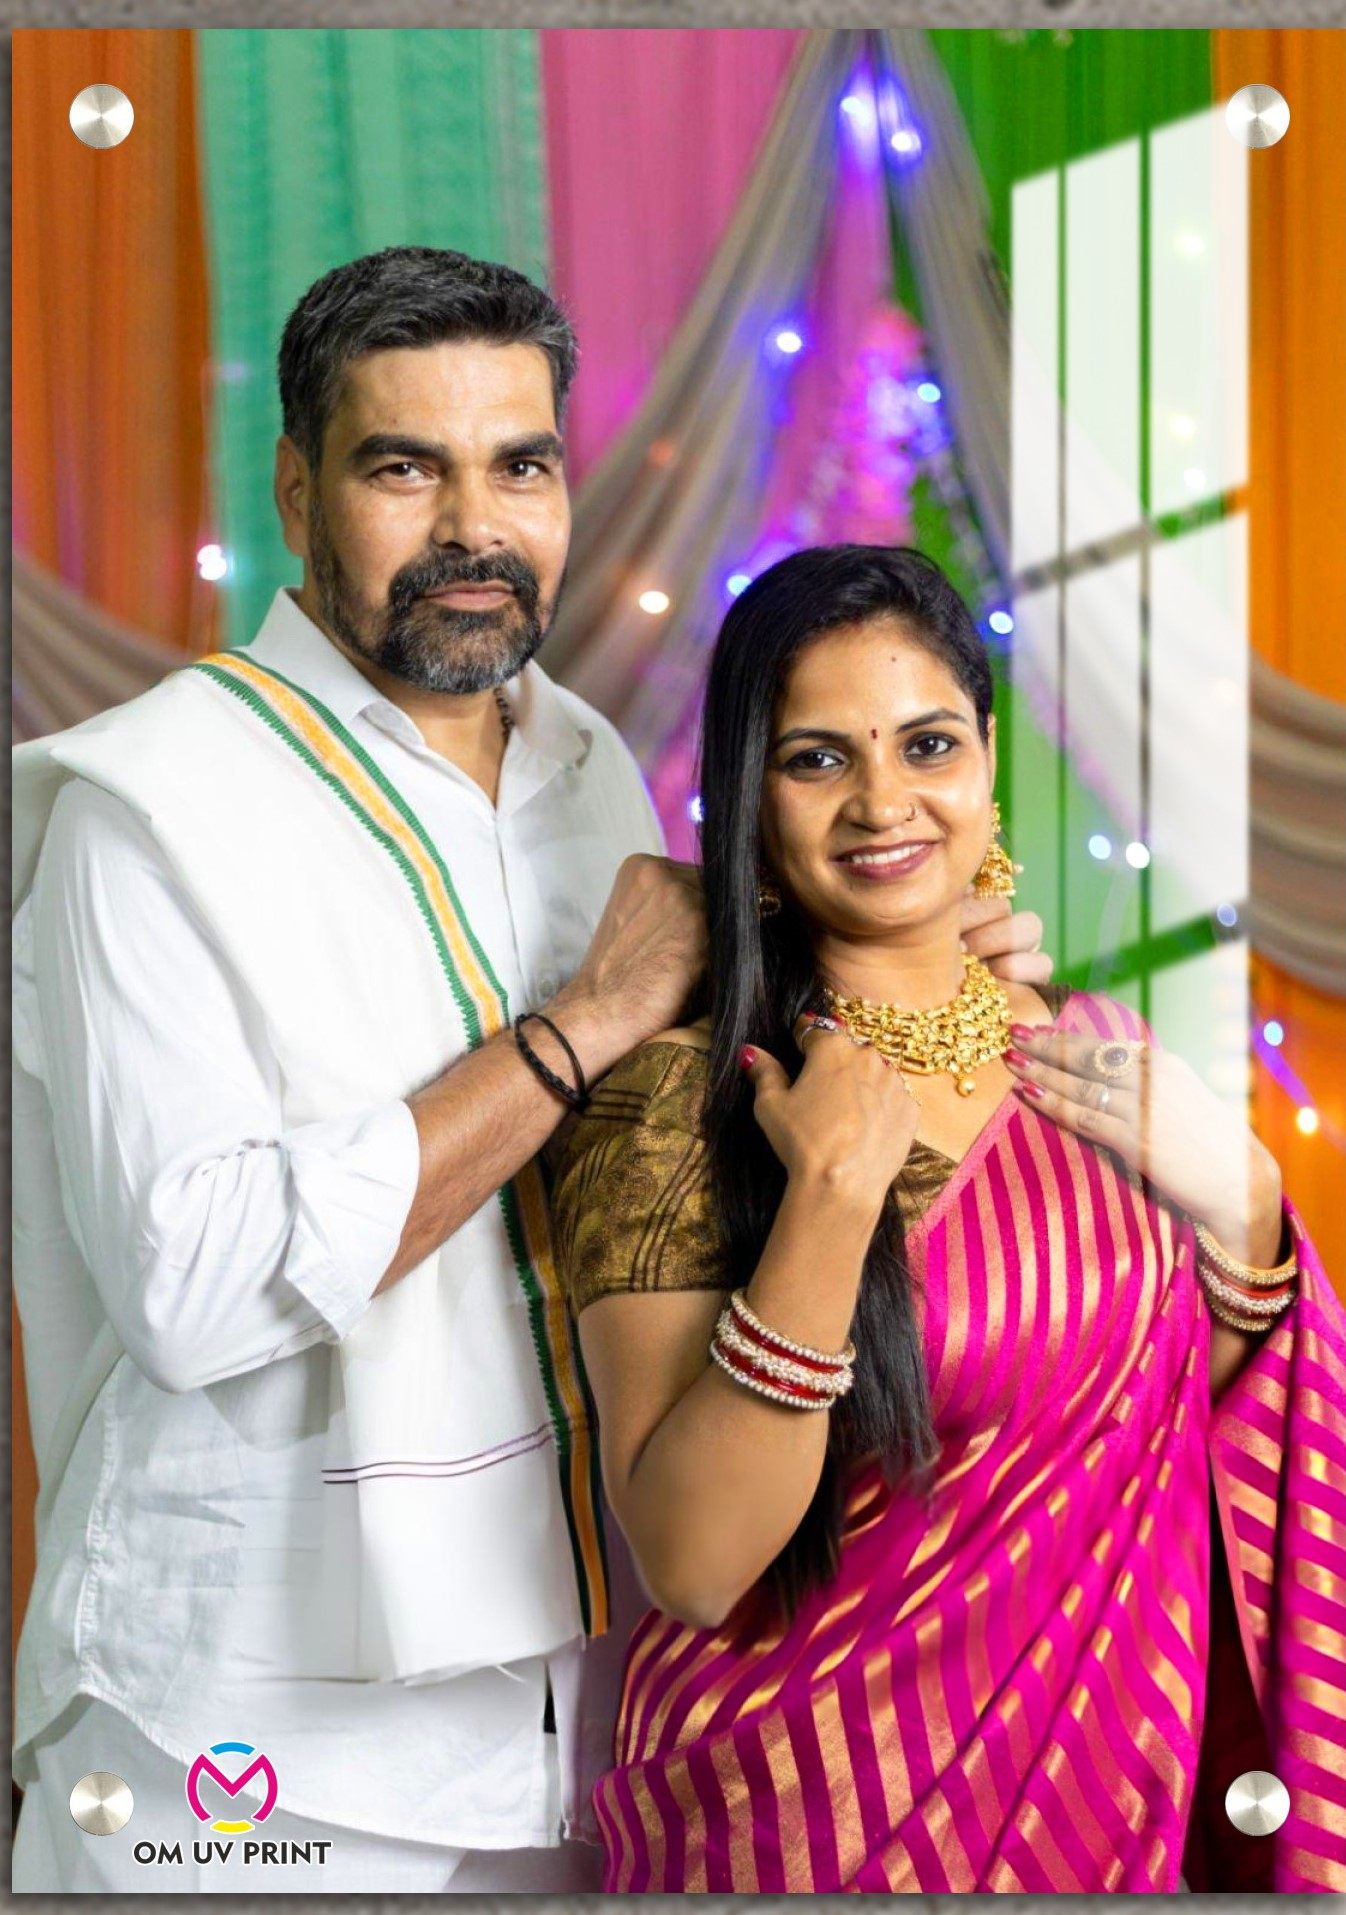
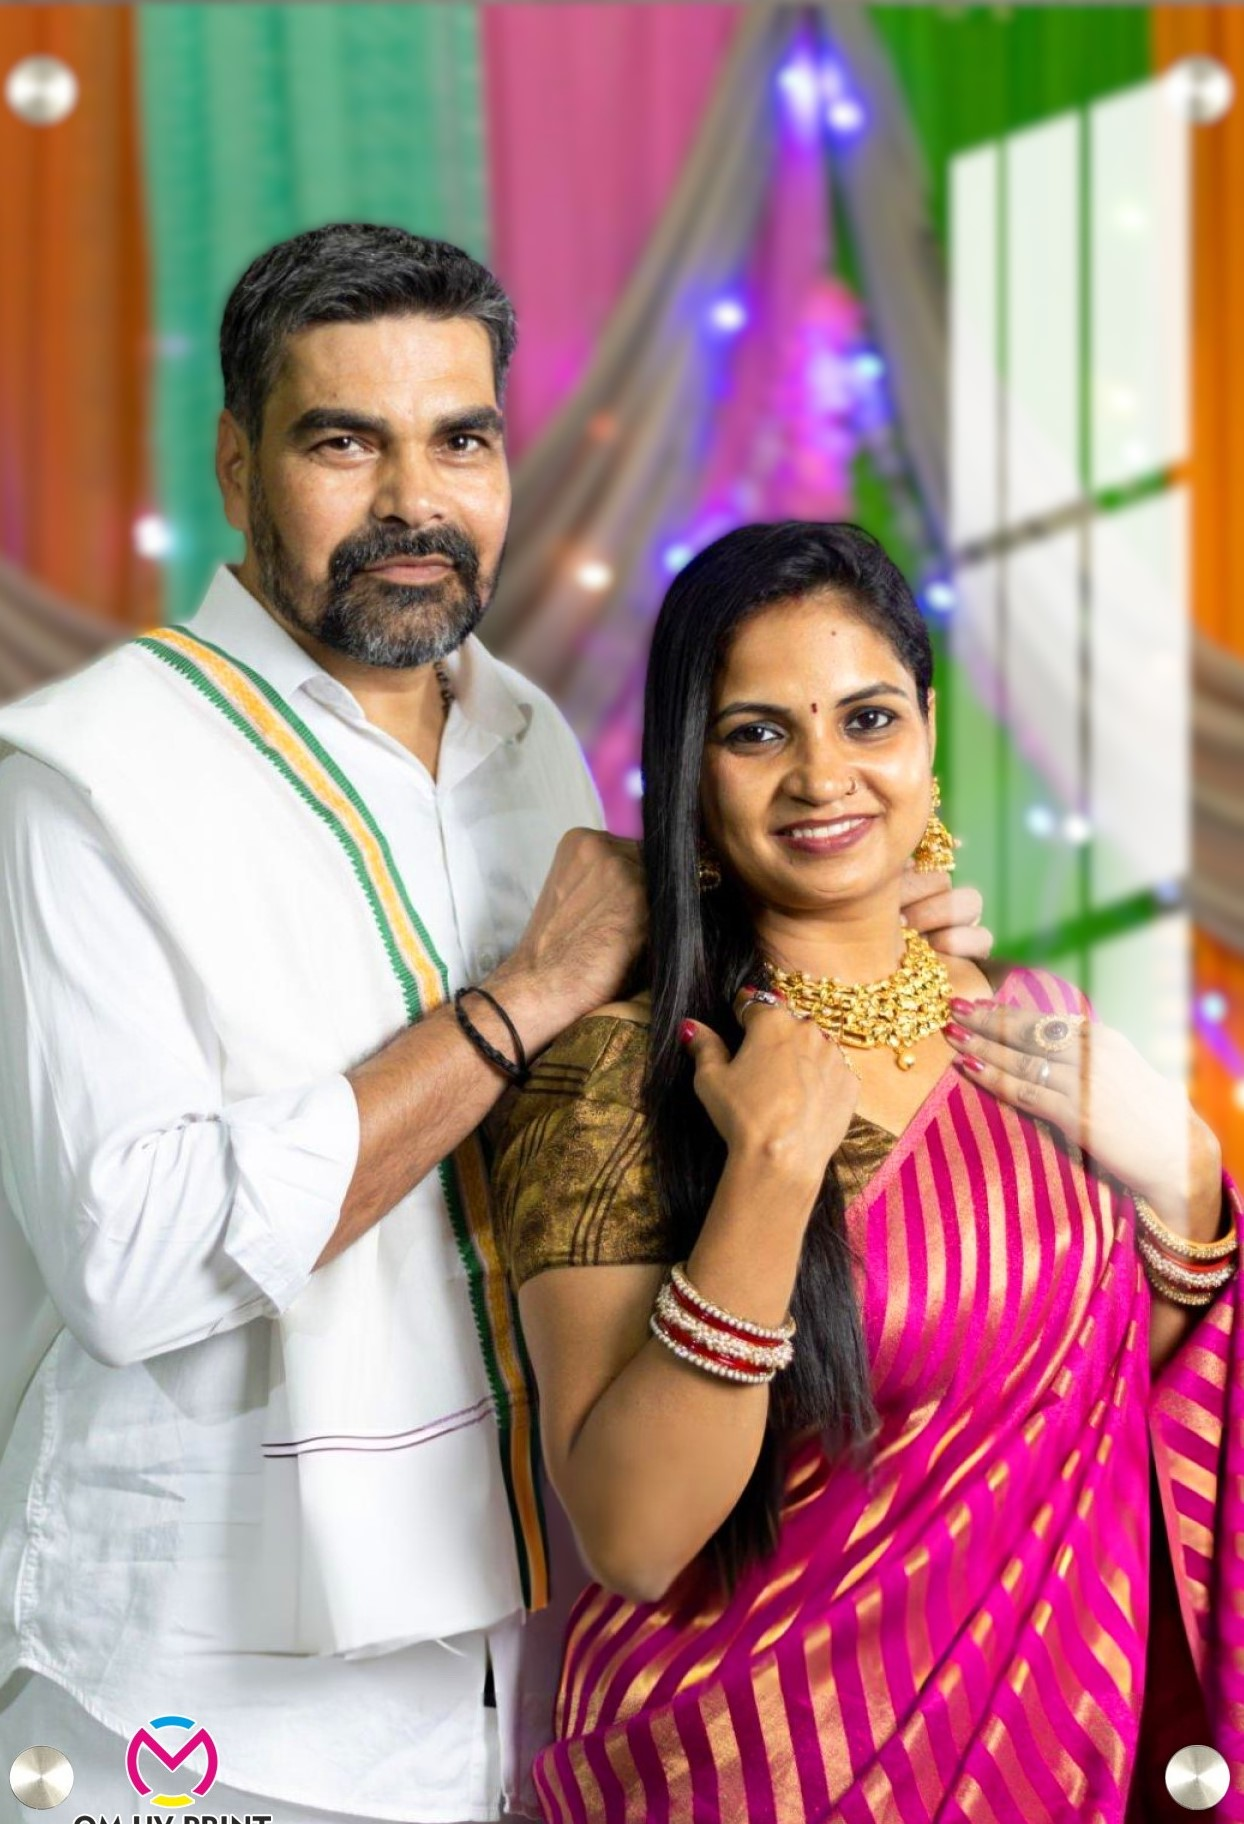
Minor CSS Changes

diff --git a/src/assets/css/AcrylicPhoto.css b/src/assets/css/AcrylicPhoto.css
@@ -47,12 +47,10 @@ body {
 }
 
 .ap-image-container {
-    width: 300px;
-    height: 450px;
-    /* 400 * (8/12) ≈ 266.67px */
+    width: 160px;
+    height: 240px;
     position: relative;
     aspect-ratio: 8/12;
-    /* width/height */
     display: flex;
     justify-content: center;
     align-items: center;
@@ -385,8 +383,8 @@ body {
 
     .ap-image-container {
         margin-top: 1rem;
-        width: 200px;
-        height: 350px;
+        width: 120px;
+        height: 180px;
         position: relative;
         aspect-ratio: 8/12;
     }

diff --git a/src/components/AcrylicPhoto.jsx b/src/components/AcrylicPhoto.jsx
@@ -322,10 +322,10 @@ const AcrylicPhoto = () => {
 
         <div className="ap-preview-container">
           <div className="ap-size-indicator ap-width-indicator" id="width">
-            Width 8 inch (30.48 cm)
+            {/* Width 8 inch (30.48 cm) */}
           </div>
           <div className="ap-size-indicator ap-height-indicator" id="height">
-            Height 12 inch (22.86 cm)
+            {/* Height 12 inch (22.86 cm) */}
           </div>
 
           <div className="ap-image-container" id="imageContainer">

diff --git a/public/js/AcrylicPhoto.js b/public/js/AcrylicPhoto.js
@@ -1,3 +1,4 @@
+
 const backgroundUrls = [
     "https://static.remove.bg/backgrounds/product/art-artistic-background-1279813-size-156.jpg",
     "https://static.remove.bg/backgrounds/person/Nature/background-clouds-colors-726330-size-156.jpg",
